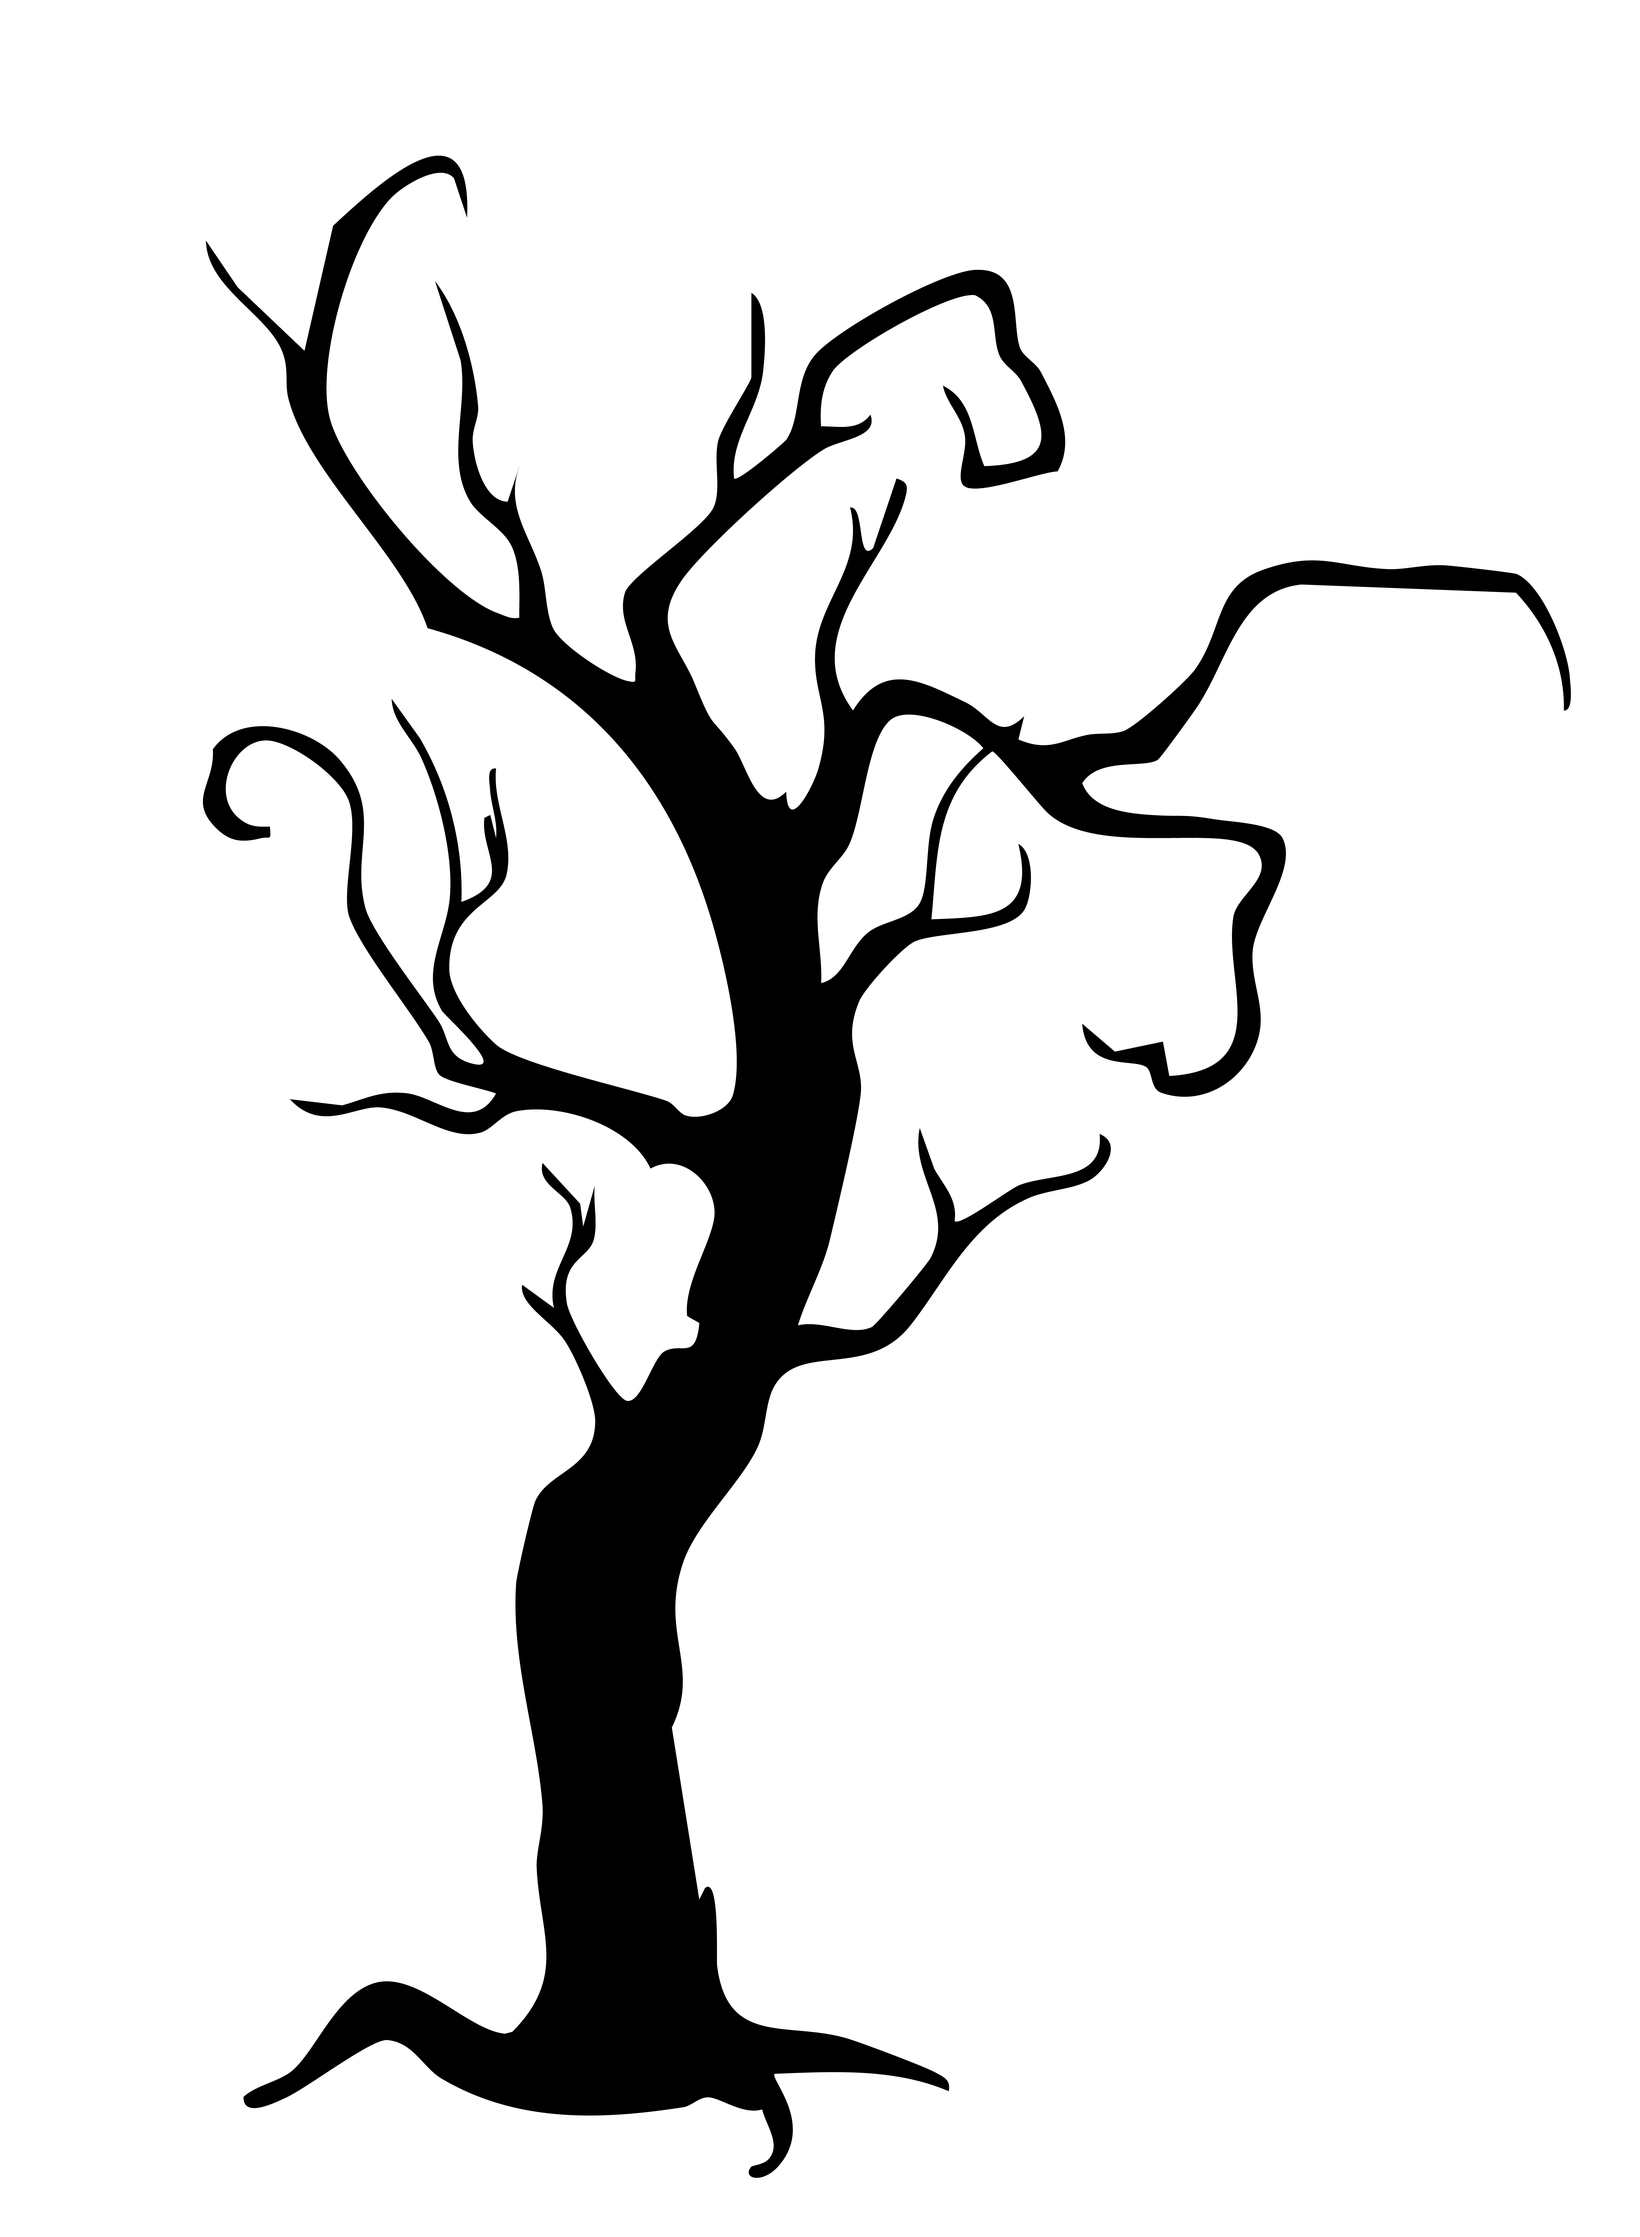
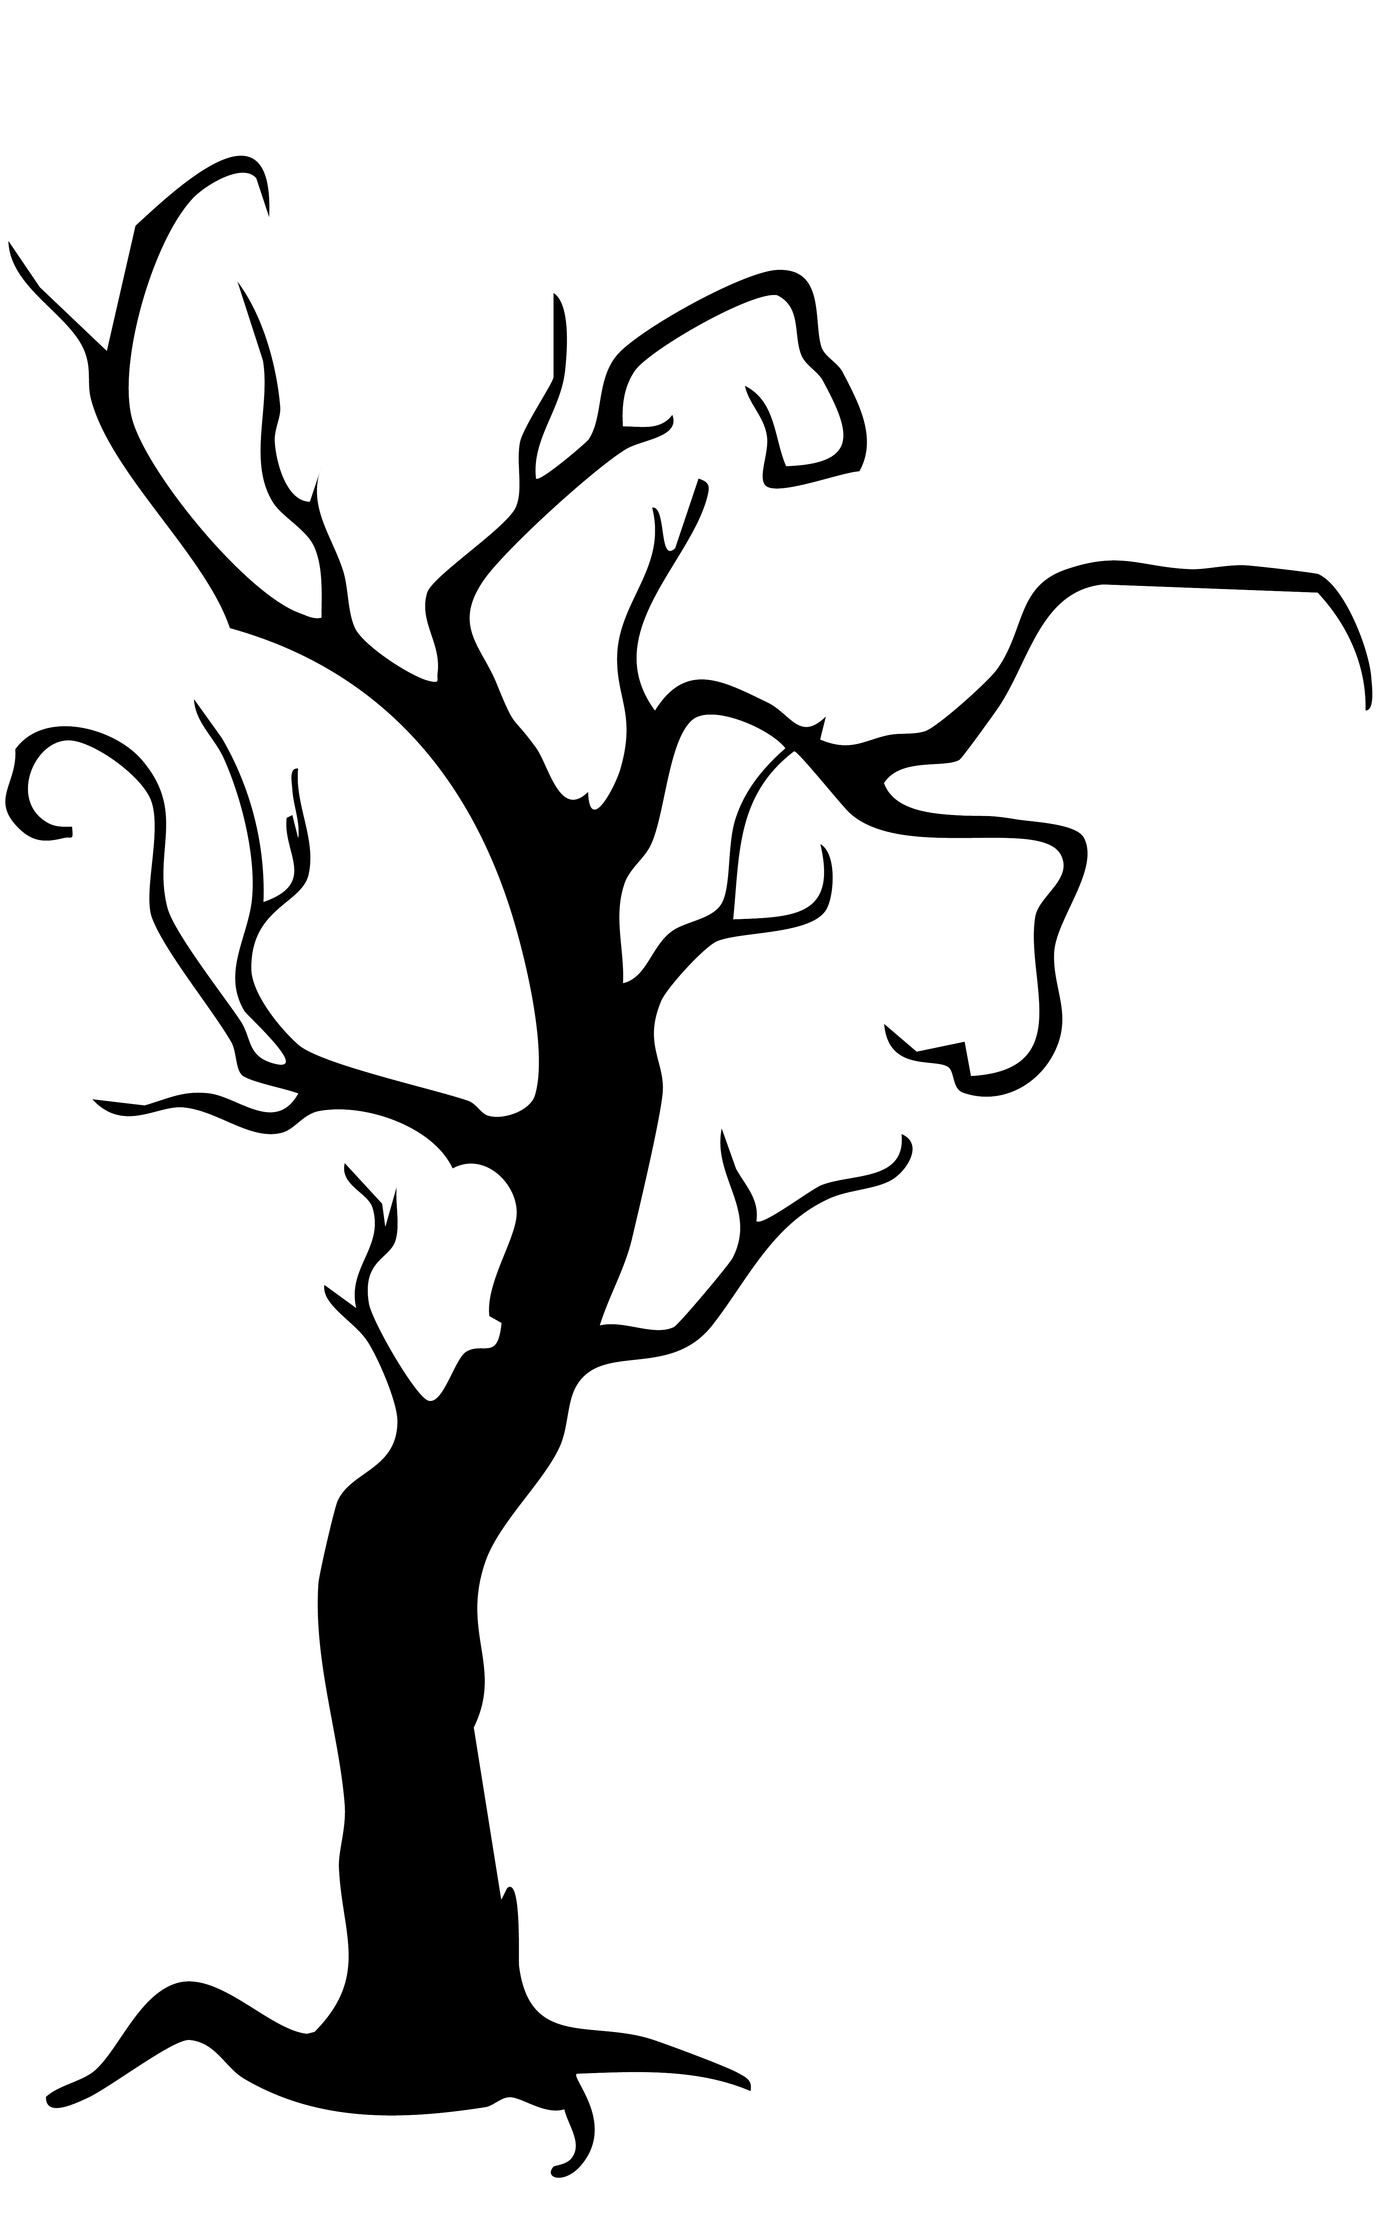
no funcionan los arboles

diff --git a/css/style.css b/css/style.css
@@ -38,7 +38,7 @@ body,html {
   font-family: var(--ff-title);
   color: var(--clr-secondary);
   position: absolute;
-  right: 20vh;
+  right: 20px;
   top: 40vh; /* Ajustamos su alineación superior */
   height: 100vh;
 }
@@ -51,7 +51,6 @@ body,html {
   margin-top: 0px;
   gap: 100px;
   overflow: hidden; /* Asegura que las imágenes fuera del área visible no sean vistas */
-  margin-bottom: 10px;
   z-index: 100;
   position: relative;
 }
@@ -59,8 +58,8 @@ body,html {
 /* Cada contenedor de árboles */
 .arboles1 {
   position: relative;
-  width: 200vh; /* Ajusta el ancho del grupo de árboles */
-  height: 130vh;
+  width: 100%; /* Ajusta el ancho del grupo de árboles */
+  height: 100vh;
   white-space: nowrap; /* Para que las imágenes no se ajusten en múltiples líneas */
   
 }
@@ -68,7 +67,7 @@ body,html {
 /* Estilo de las imágenes de los árboles */
 .arboles1 img {
   position: absolute;
-  width: 100%;
+  height: 100vh;
   transition: transform 1s ease-out; /* Asegura que el movimiento sea suave */
   will-change: transform; /* Mejor rendimiento durante el desplazamiento */
 }
@@ -328,30 +327,134 @@ body,html {
   cursor: pointer;
 }
 
-@media (min-width: 700px) {
-.arboles1 img {
-  width: 90%;
+
+/* MEDIA QUERY */
+/* General: Ajusta el diseño para pantallas pequeñas */
+@media (max-width: 1024px) {
+  #background-section {
+    background-position: center center;
+    background-size: cover;
+  }
+
+  #estaanocheciendo {
+    font-size: 24px; /* Reduce el tamaño del texto */
+    top: 30vh; /* Ajusta la posición */
+    right: 10px; /* Reduce el espacio a los lados */
+  }
+
+  #arboles1 img {
+    width: 80%; /* Reduce el tamaño de las imágenes */
+  }
+
+  #teequivocaste {
+    font-size: 20px; /* Ajusta el tamaño del texto */
+    margin-left: 30%; /* Centra mejor en pantallas pequeñas */
+  }
+
+  #huellas {
+    height: auto; /* Ajusta la altura automáticamente */
+    gap: 20px; /* Reduce el espacio entre huellas */
+  }
+
+  #linterna #draggable {
+    width: 200px; /* Reduce el tamaño de la linterna */
+    height: 80px;
+  }
+
+  #droppable {
+    width: 300px;
+    height: 300px;
+  }
 }
-}
-/* Responsividad para pantallas pequeñas */
-@media (max-width: 767px) {
-  .col-md-6 {
-    width: 100%;
-    padding: 0;
+
+/* Para móviles pequeños */
+@media (max-width: 768px) {
+  #background-section {
+    margin-bottom: 20px; /* Reduce el margen */
+  }
+
+  #estaanocheciendo {
+    font-size: 20px;
+    top: 25vh;
+    right: 5px;
+  }
+
+  #arboles {
+    gap: 50px; /* Reduce el espacio entre elementos */
+  }
+
+  #teequivocaste {
+    margin-left: 20%; /* Centra mejor el texto */
+    font-size: 18px;
+  }
+
+  #huellas {
+    gap: 15px;
+  }
+
+  .huella {
+    width: 80px; /* Ajusta el tamaño de las huellas */
+  }
+
+  #linterna #draggable {
+    width: 150px;
+    height: 60px;
+  }
+
+  #droppable {
+    width: 250px;
+    height: 250px;
+  }
+
+  #droppedImage img {
+    width: 50px; /* Ajusta el tamaño de los ítems */
   }
 
   #modelViewerContainer > model-viewer {
-    height: 400px; /* Ajustar el tamaño del modelo 3D en pantallas pequeñas */
+    height: 300px; /* Ajusta el visor 3D */
+  }
+
+  .modal-body {
+    padding: 10px;
+  }
+
+  .btn-custom {
+    font-size: 14px;
+    padding: 8px 16px;
   }
 }
 
-/* Para dispositivos más grandes, por ejemplo, tabletas y móviles grandes */
-@media (min-width: 768px) {
-  .col-md-6 {
-    width: 50%;
+/* Para pantallas aún más pequeñas */
+@media (max-width: 480px) {
+  #estaanocheciendo {
+    font-size: 16px;
+    top: 20vh;
   }
 
-  #modelViewerContainer > model-viewer {
-    height: 400px;
+  /* #arboles1 img {
+    width: 100%; /* Ajusta las imágenes al ancho disponible */
+
+
+  #teequivocaste {
+    font-size: 16px;
+    margin-left: 10%;
   }
+
+  #linterna #draggable {
+    width: 100px;
+    height: 40px;
+  }
+
+  #droppable {
+    width: 200px;
+    height: 200px;
+  }
+
+  .modal-body {
+    font-size: 14px;
+  }
+  .arboles1 img {
+    max-height: 30vh; /* Reducir tamaño máximo de imágenes */
+    max-width: 90%; /* Ajustar proporción para pantallas pequeñas */
+}
 }

diff --git a/index.html b/index.html
@@ -55,14 +55,14 @@
 
                 <section id="arboles" data-scroll-container>
                     <div class="arboles1" data-scroll data-scroll-direction="horizontal" data-scroll-speed="3">
-                        <img src="img/ARBOL2.png" alt="árbol 2" class="arbol" style="transform: translate(200px, 50px); z-index: 3;">
+                        <img src="img/ARBOL2.png" alt="árbol 2" class="arbol" style="transform: translate(100px, 50px); z-index: 3;">
                         <img src="img/ARBOL5.png" alt="árbol 5" class="arbol" style="transform: translate(-100px, 50px); z-index: 2;">
-                        <img src="img/ARBOL1.png" alt="árbol 1" class="arbol" style="transform: translate(-10px, 50px); z-index: 1;">
+                        <img src="img/ARBOL1.png" alt="árbol 1" class="arbol" style="transform: translate(10px, 50px); z-index: 1;">
                     </div>
                     <div class="arboles1" data-scroll data-scroll-direction="horizontal" data-scroll-speed="-3">
-                        <img src="img/ARBOL4.png" alt="árbol 4" class="arbol" style="transform: translate(-80px, 50px); z-index: 3;">
-                        <img src="img/ARBOL3.png" alt="árbol 3" class="arbol" style="transform: translate(110px, 50px); z-index: 2;">
-                        <img src="img/ARBOL6.png" alt="árbol 6" class="arbol" style="transform: translate(10px, 50px); z-index: 1;">
+                        <img src="img/ARBOL4.png" alt="árbol 4" class="arbol" style="transform: translate(-100px, 50px); z-index: 3;">
+                        <img src="img/ARBOL3.png" alt="árbol 3" class="arbol" style="transform: translate(100px, 50px); z-index: 2;">
+                        <img src="img/ARBOL6.png" alt="árbol 6" class="arbol" style="transform: translate(20px, 50px); z-index: 1;">
                     </div>
                 </section>
                 
